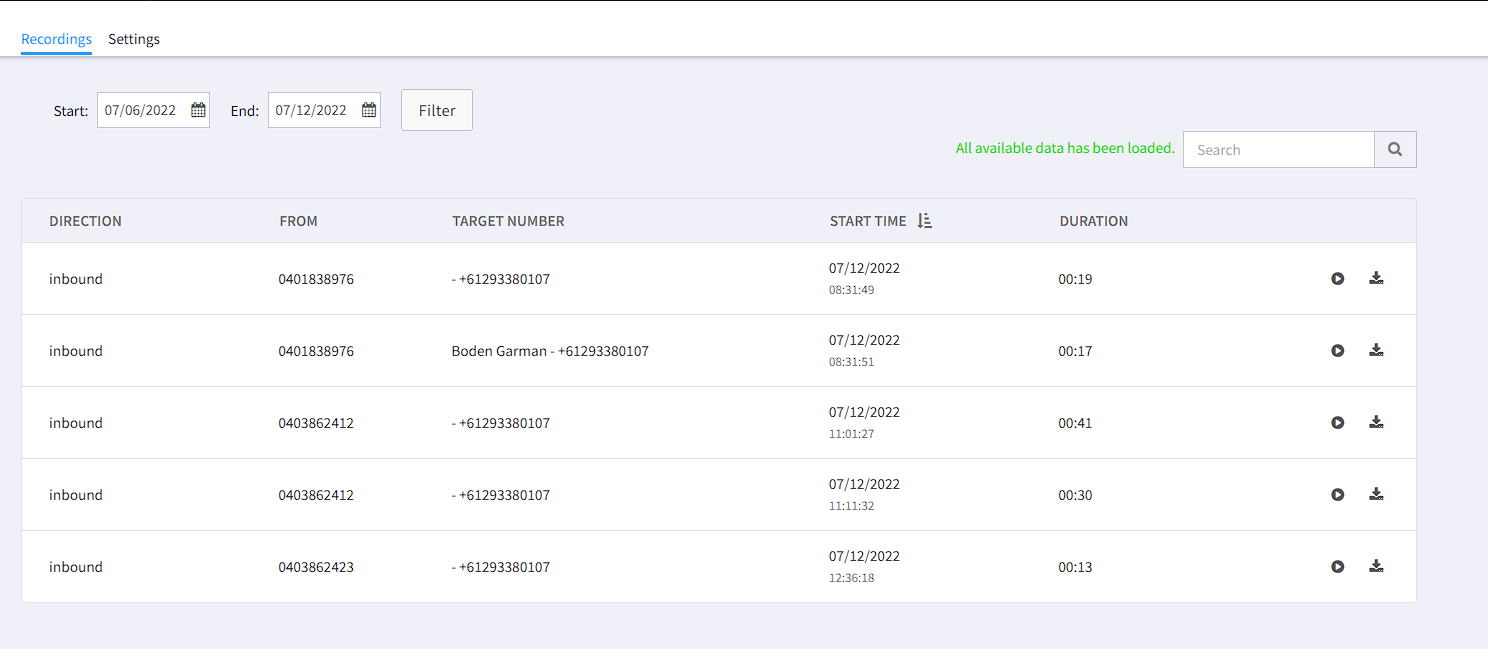
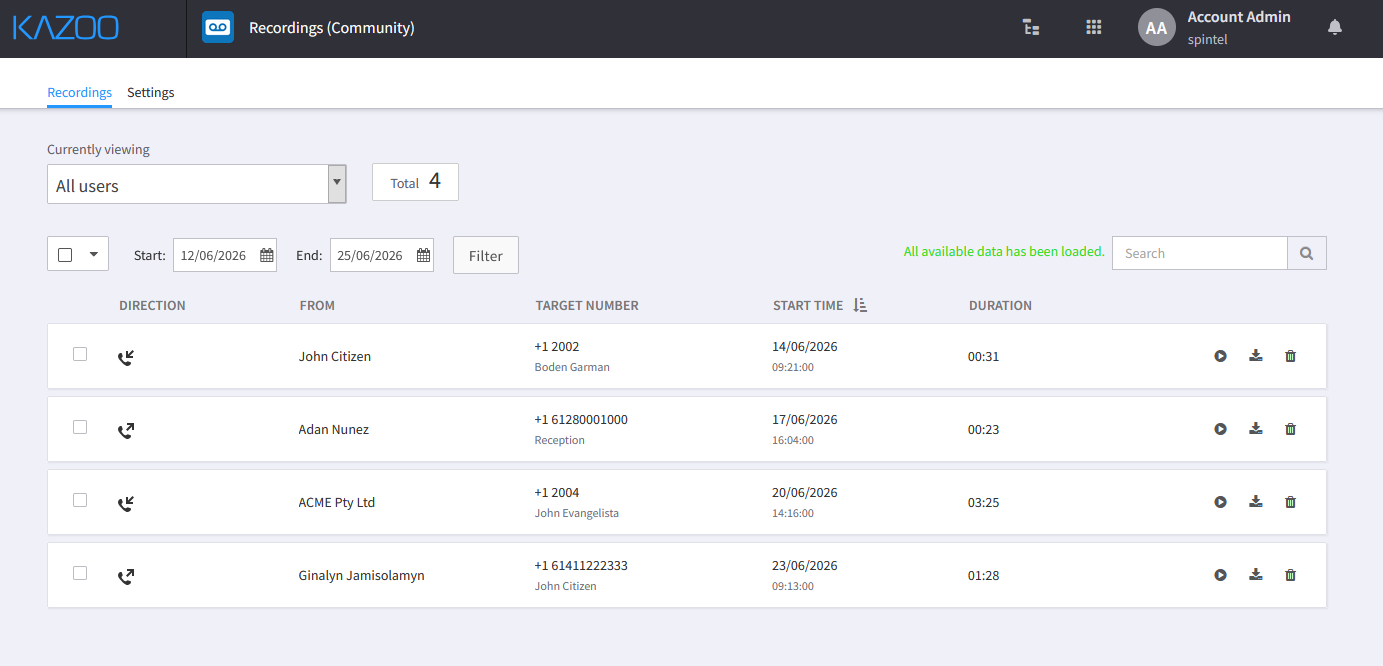
Update README and screenshots

diff --git a/README.md b/README.md
@@ -4,6 +4,7 @@ Monster UI Application: Provides an app to view and download call recordings for
 ## Screenshots
 ![recordings-list](metadata/screenshots/recordings1.PNG?raw=true)
 ![settings](metadata/screenshots/recordings2.PNG?raw=true)
+![settings](metadata/screenshots/recordings3.PNG?raw=true)
 
 ## Installation
 
